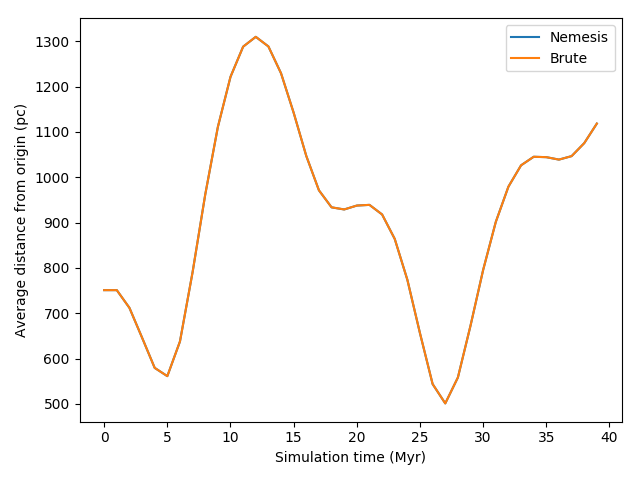
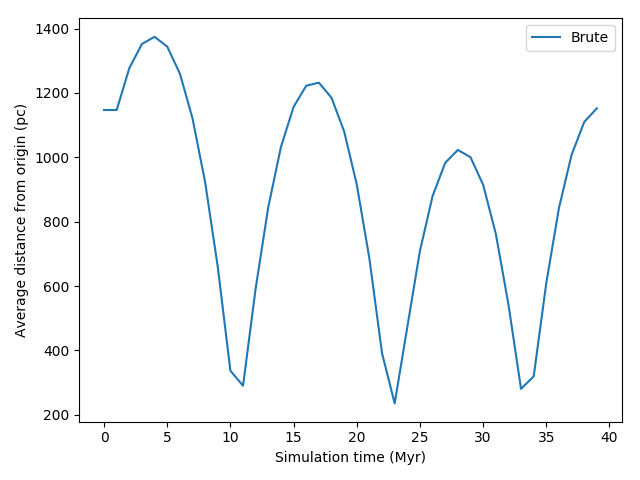
just Brute

diff --git a/src/main.py b/src/main.py
@@ -108,7 +108,7 @@ def timestep_func(ipart, jpart, eta=dt_param/2., _G=constants.G):
 
    	tau = eta/2./2.**0.5*(dr3/mu)**0.5
 
-	return eta|units.Myr #tau
+	return tau
 
 def radius(sys, eta=dt_param, _G=constants.G):
 
@@ -116,7 +116,6 @@ def radius(sys, eta=dt_param, _G=constants.G):
      	ra = ((_G*sys.total_mass()*dt**2/eta**2)**(1/3.))
 	ra = ra*((len(sys)+1)/2.)**0.75
 	return 100.*ra
-     
 
 def gravity_code_setup(gravity_solver_str, galaxy_code,
 		       cluster_codes, cluster_bodies_list):
@@ -242,7 +241,7 @@ def main(Rgal, Mgal, alpha, gravity_solvers, Nclusters, Nstars, W0, M,
    
             #for figures 3 through 6, November 24
 
-            x = [ xx.value_in(units.parsec) for xx in gravity.particles.x ]
+            x = gravity.particles.x.value_in(units.parsec) 
             y = [ yy.value_in(units.parsec) for yy in gravity.particles.y ]
             z = [ zz.value_in(units.parsec) for zz in gravity.particles.z ]
             
@@ -276,13 +275,13 @@ def main(Rgal, Mgal, alpha, gravity_solvers, Nclusters, Nstars, W0, M,
             plt.savefig('frame_%s_%s.png'%(str(i).rjust(4, '0'), gravity_solver_str))
             plt.close()        
 
-            if gravity_solver_str == 'Brute:
+            if gravity_solver_str == 'Brute':
 
                 gravity.evolve_model(t, timestep=dt)
 
             if gravity_solver_str == 'Nemesis':
                 
-                grvity.evolve_model(t)
+                gravity.evolve_model(t)
 
 	print(gravity_solver_str)
 	print(mean_radial_coords)
@@ -342,7 +341,7 @@ if __name__ == '__main__':
     parameters = [('epsilon_squared', 0.01|(units.parsec**2))]
     t_end, dt = 40.|units.Myr, 1.|units.Myr
 
-    gravity_solvers = [ 'Nemesis', 'Brute' ]
+    gravity_solvers = [ 'Brute' ] #'Nemesis'
 
     main(Rgal, Mgal, alpha, gravity_solvers, Nclusters, Nstars, W0cluster,
          Mcluster, Rcluster, Rinit, parameters, t_end, dt)
